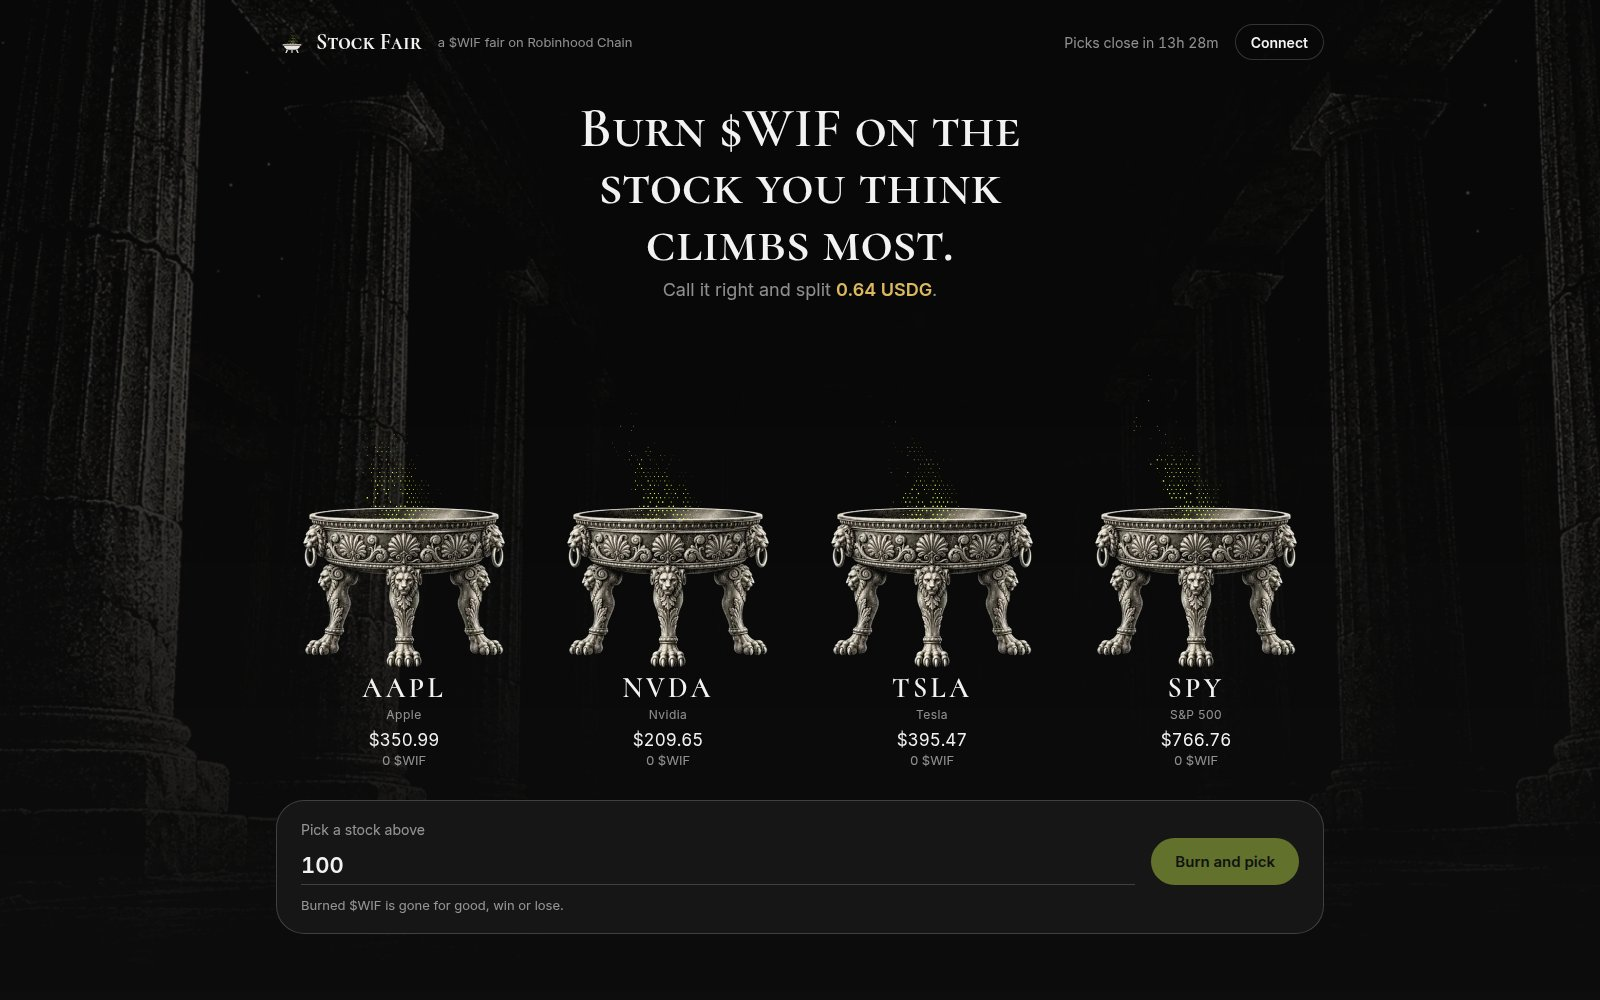
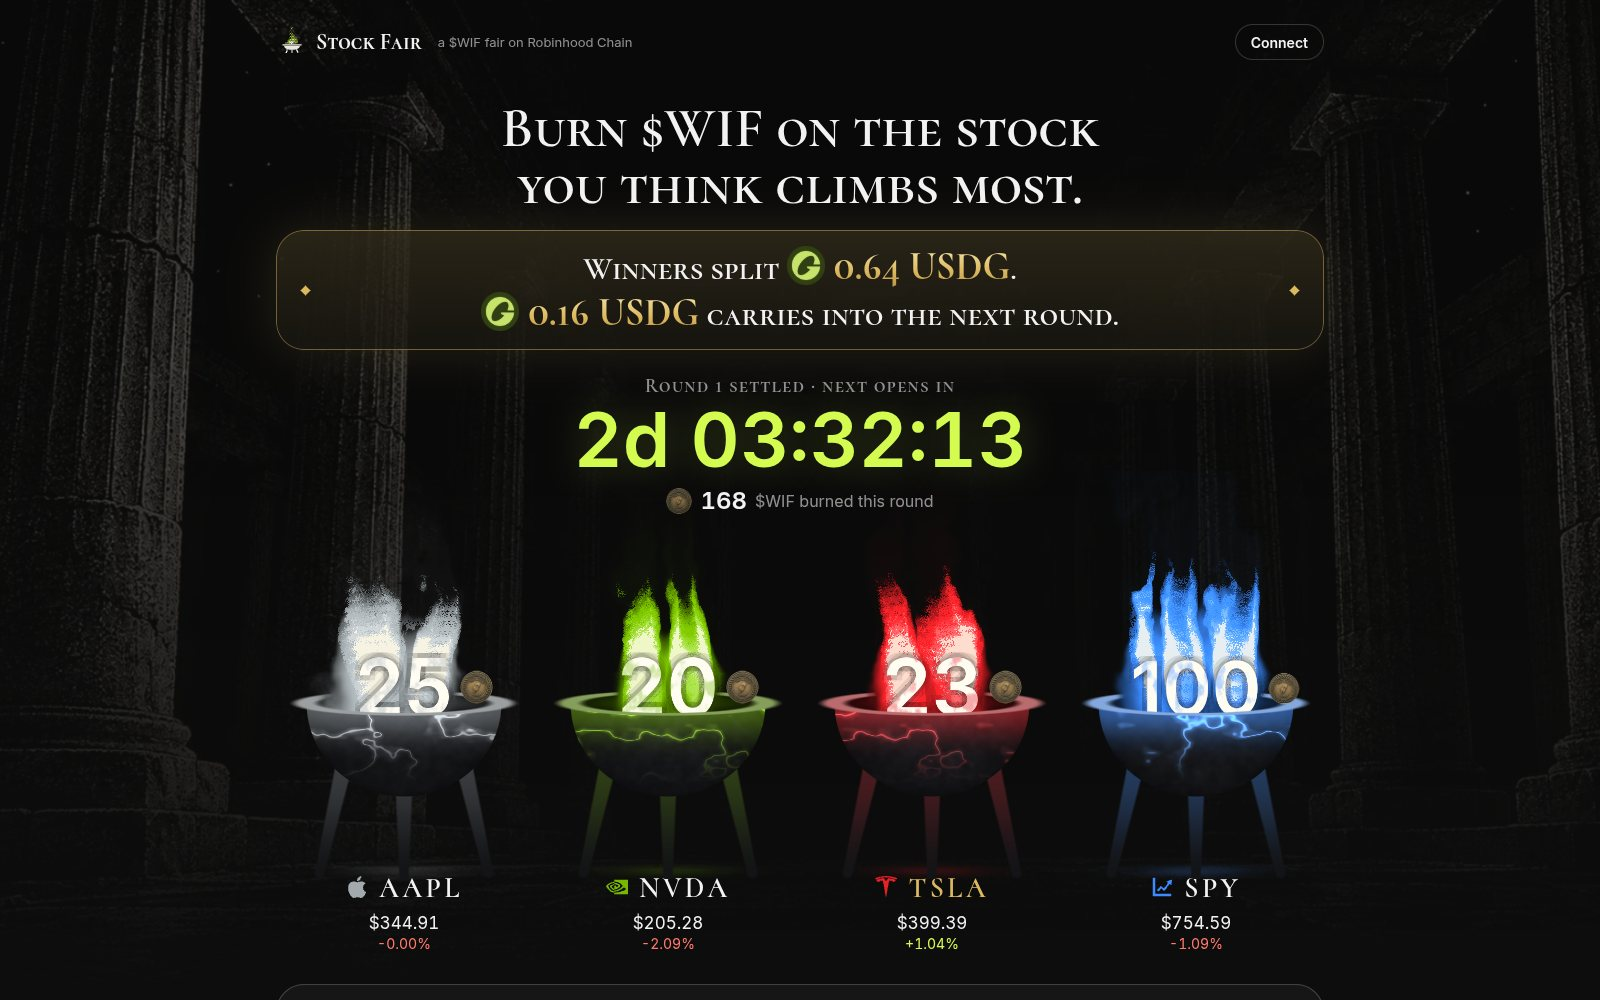
Show the settled page in the README and trim the footer
The README's main image now shows the live page after round 1, with the
fire-lit cauldrons and the carry into the next round. The footer lists only
the services the page depends on.

diff --git a/ui/src/App.tsx b/ui/src/App.tsx
@@ -27,8 +27,6 @@ const POWERED = [
   { name: "USDG", url: "https://globaldollar.com", logo: "/brand/usdg.png" },
   { name: "Chainlink", url: "https://chain.link", logo: "/brand/logos/chainlink.svg" },
   { name: "DexScreener", url: "https://dexscreener.com/robinhood", logo: "/brand/logos/dexscreener.png" },
-  { name: "Solidity", url: "https://soliditylang.org", logo: "/brand/logos/solidity.svg" },
-  { name: "React", url: "https://react.dev", logo: "/brand/logos/react.svg" },
 ];
 
 type Position = { burns: bigint[]; claimable: bigint };

diff --git a/README.md b/README.md
@@ -18,7 +18,7 @@ A new round every US market day, on Robinhood Chain mainnet.
 
 </div>
 
-<img src="docs/screens/live.jpg" alt="The live page: four braziers for AAPL, NVDA, TSLA and SPY, with live Chainlink prices and the $WIF burned on each">
+<img src="docs/screens/live.jpg" alt="The live page after round 1: four fire-lit cauldrons for AAPL, NVDA, TSLA and SPY, each burning its $WIF total, under the pot and the countdown to the next round">
 
 Every weekday, Stock Fair opens a round on four Stock Tokens: AAPL, NVDA, TSLA and SPY. Before the US market opens, $WIF holders burn $WIF on the stock they think will gain most by the close. At the close, the contract reads Chainlink's prices on chain. Everyone who backed the winner splits 80% of the pot in proportion to their burn, and 20% rolls into the next round. It is the WIF team's own format, burn to vote, pointed at the stocks on Robinhood Chain.
 
@@ -107,7 +107,7 @@ Every round the contract has run, with links to each transaction. The table is r
 ## Try it
 
 1. Open the [live app](https://stock-fair.timidan.xyz). It shows the round, live Chainlink prices and the $WIF burned on each stock, with no wallet needed.
-2. To play, connect a wallet on Robinhood Chain that holds $WIF, pick a brazier and press **Burn and pick**.
+2. To play, connect a wallet on Robinhood Chain that holds $WIF, pick a cauldron and press **Burn and pick**.
 3. After the close, the oracle tablet shows the result. Winners press **Claim USDG**.
 
 ## Quickstart
